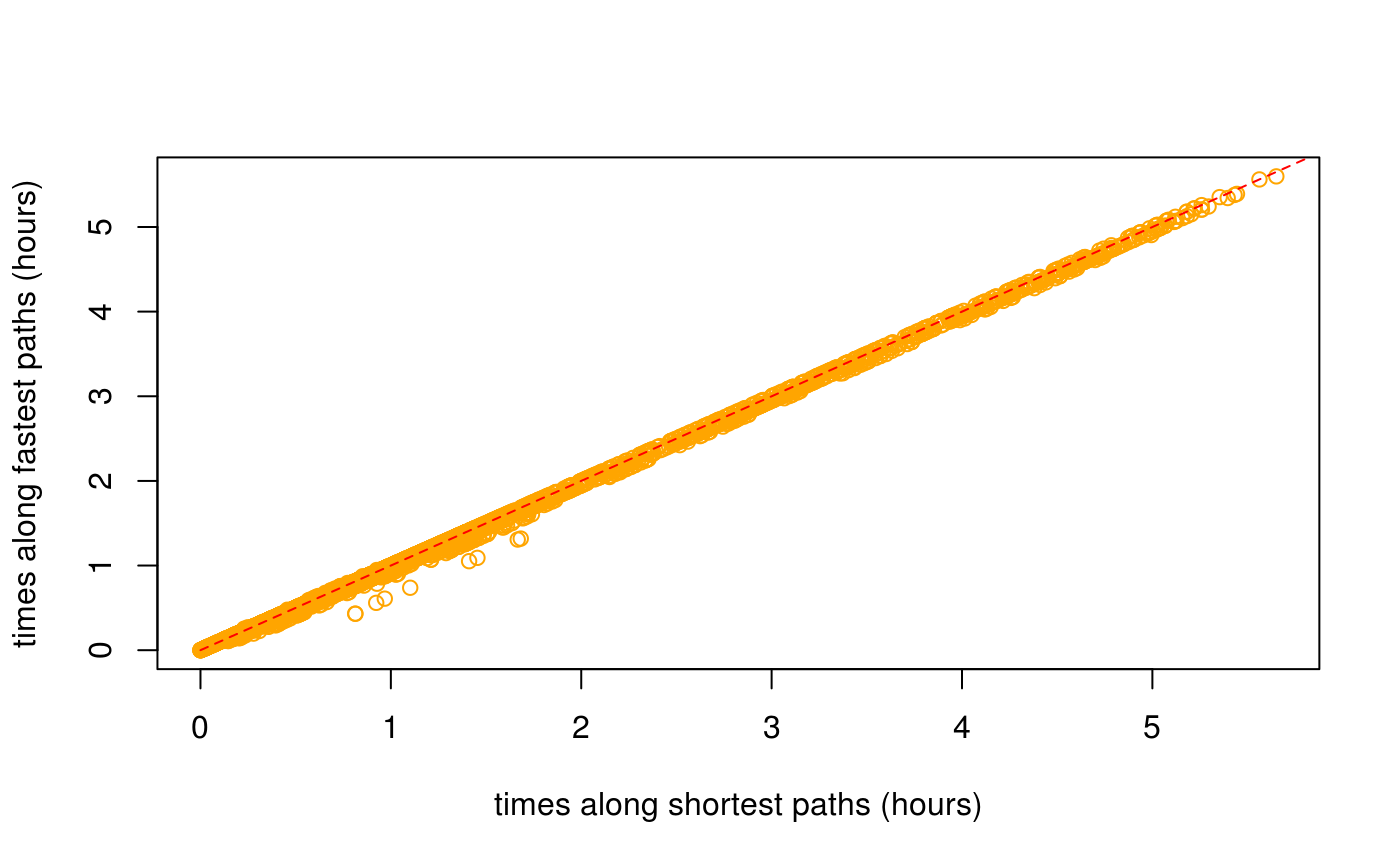
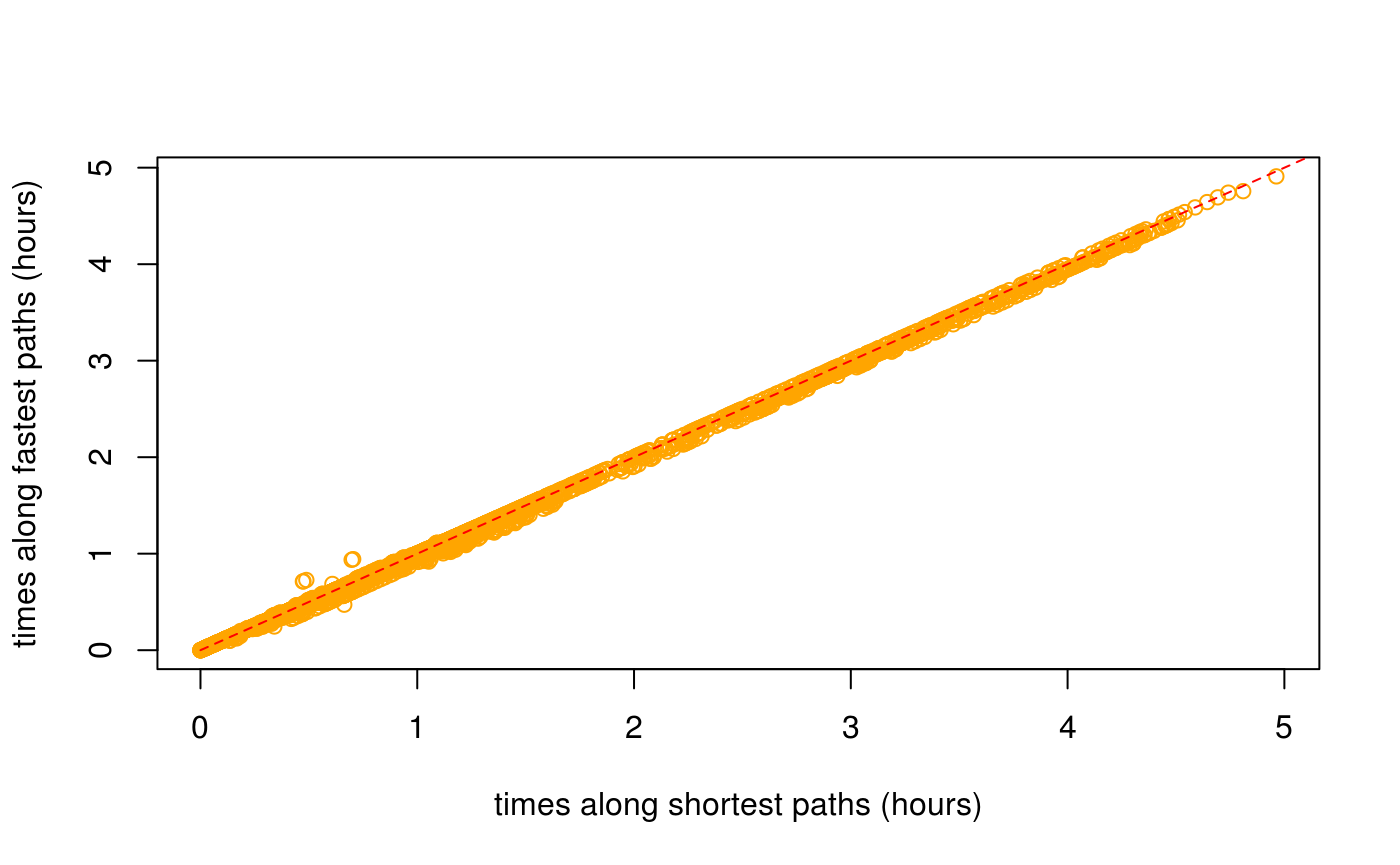
Built site for dodgr: 0.1.4.3@d1edc74

diff --git a/articles/dodgr.html b/articles/dodgr.html
@@ -68,7 +68,7 @@
       <h1>dodgr</h1>
                         <h4 class="author">Mark Padgham</h4>
             
-            <h4 class="date">2019-05-30</h4>
+            <h4 class="date">2019-05-31</h4>
       
       <small class="dont-index">Source: <a href="https://github.com/ATFutures/dodgr/blob/master/vignettes/dodgr.Rmd"><code>vignettes/dodgr.Rmd</code></a></small>
       <div class="hidden name"><code>dodgr.Rmd</code></div>
@@ -421,30 +421,30 @@ Figure 2: A <strong>dual</strong>-weighted, directed graph in which the weights 
 <div class="sourceCode" id="cb77"><pre class="sourceCode r"><code class="sourceCode r"><a class="sourceLine" id="cb77-1" data-line-number="1"><span class="kw"><a href="../reference/compare_heaps.html">compare_heaps</a></span> (graph, <span class="dt">nverts =</span> <span class="dv">100</span>, <span class="dt">replications =</span> <span class="dv">1</span>)</a></code></pre></div>
 <pre><code>##                                                                                   test
 ## 12                  d &lt;- igraph::distances(igr, v = from_id, to = to_id, mode = "out")
+## 5                 d &lt;- dodgr_dists(graph, from = from_id, to = to_id, heap = "Heap23")
 ## 6       d &lt;- dodgr_dists(graph_contracted, from = from_id, to = to_id, heap = "BHeap")
 ## 7       d &lt;- dodgr_dists(graph_contracted, from = from_id, to = to_id, heap = "FHeap")
-## 9  d &lt;- dodgr_dists(graph_contracted, from = from_id, to = to_id, heap = "TriHeapExt")
-## 11        d &lt;- dodgr_dists(graph_contracted, from = from_id, to = to_id, heap = "set")
-## 5                 d &lt;- dodgr_dists(graph, from = from_id, to = to_id, heap = "Heap23")
 ## 8     d &lt;- dodgr_dists(graph_contracted, from = from_id, to = to_id, heap = "TriHeap")
+## 4             d &lt;- dodgr_dists(graph, from = from_id, to = to_id, heap = "TriHeapExt")
+## 9  d &lt;- dodgr_dists(graph_contracted, from = from_id, to = to_id, heap = "TriHeapExt")
 ## 10     d &lt;- dodgr_dists(graph_contracted, from = from_id, to = to_id, heap = "Heap23")
+## 11        d &lt;- dodgr_dists(graph_contracted, from = from_id, to = to_id, heap = "set")
 ## 1                  d &lt;- dodgr_dists(graph, from = from_id, to = to_id, heap = "BHeap")
 ## 2                  d &lt;- dodgr_dists(graph, from = from_id, to = to_id, heap = "FHeap")
 ## 3                d &lt;- dodgr_dists(graph, from = from_id, to = to_id, heap = "TriHeap")
-## 4             d &lt;- dodgr_dists(graph, from = from_id, to = to_id, heap = "TriHeapExt")
 ##    replications elapsed relative user.self sys.self user.child sys.child
 ## 12            1   0.001        1     0.004        0          0         0
-## 6             1   0.002        2     0.004        0          0         0
+## 5             1   0.002        2     0.004        0          0         0
+## 6             1   0.002        2     0.000        0          0         0
 ## 7             1   0.002        2     0.000        0          0         0
-## 9             1   0.002        2     0.004        0          0         0
-## 11            1   0.002        2     0.000        0          0         0
-## 5             1   0.003        3     0.000        0          0         0
-## 8             1   0.003        3     0.000        0          0         0
+## 8             1   0.002        2     0.004        0          0         0
+## 4             1   0.003        3     0.004        0          0         0
+## 9             1   0.003        3     0.004        0          0         0
 ## 10            1   0.003        3     0.000        0          0         0
-## 1             1   0.004        4     0.004        0          0         0
-## 2             1   0.004        4     0.004        0          0         0
-## 3             1   0.004        4     0.004        0          0         0
-## 4             1   0.004        4     0.004        0          0         0</code></pre>
+## 11            1   0.003        3     0.000        0          0         0
+## 1             1   0.005        5     0.008        0          0         0
+## 2             1   0.005        5     0.008        0          0         0
+## 3             1   0.005        5     0.004        0          0         0</code></pre>
 <p>The key column of that <code>data.frame</code> is <code>relative</code>, which quantifies the relative performance of each test in relation to the best which is given a score of 1. <code>dodgr</code> using the default <code>heap = "BHeap"</code>, which is a binary heap priority queue, performs faster than <code>igraph</code> <span class="citation">(Csardi and Nepusz 2006)</span> for these graphs. Different kind of graphs will perform differently with different priority queue structures, and this function enables users to empirically discern the optimal heap for their kind of graph.</p>
 <p>Note, however, that this is not an entirely fair comparison, because <code>dodgr</code> calculates dual-weighted distances, whereas <code>igraph</code>—and indeed all other <strong>R</strong> packages—only directly calculate distances based on a single set of weights. Implementing dual-weighted routing in these cases requires explicitly re-tracing all paths and summing the second set of weights along each path. A time comparison in that case would be very strongly in favour of <code>dodgr</code>. Moreover, <code>dodgr</code> can convert graphs to contracted form through removing redundant vertices, as detailed in the following section. Doing so greatly improves performance with respect to <code>igraph</code>.</p>
 <p>For those wishing to do explicit comparisons themselves, the following code generates the <code>igraph</code> equivalent of <code><a href="../reference/dodgr_dists.html">dodgr_dists()</a></code>, although of course for single-weighted graphs only:</p>
@@ -497,11 +497,11 @@ Figure 3: <strong>(A)</strong> Vertex#2 is redundant for routing calculations fr
 <pre><code>## [1] 672</code></pre>
 <div class="sourceCode" id="cb89"><pre class="sourceCode r"><code class="sourceCode r"><a class="sourceLine" id="cb89-1" data-line-number="1">verts &lt;-<span class="st"> </span><span class="kw"><a href="https://www.rdocumentation.org/packages/base/topics/sample">sample</a></span> (<span class="kw"><a href="../reference/dodgr_vertices.html">dodgr_vertices</a></span> (graph)<span class="op">$</span>id, <span class="dt">size =</span> <span class="dv">100</span>)</a>
 <a class="sourceLine" id="cb89-2" data-line-number="2"><span class="kw"><a href="https://www.rdocumentation.org/packages/utils/topics/head">head</a></span> (verts) <span class="co"># a character vector</span></a></code></pre></div>
-<pre><code>## [1] "2398958034" "1148814651" "6161853487" "571423191"  "2398957861"
-## [6] "1376768724"</code></pre>
+<pre><code>## [1] "1143452536" "2398957563" "2627428633" "2627461395" "339574152" 
+## [6] "1143452459"</code></pre>
 <div class="sourceCode" id="cb91"><pre class="sourceCode r"><code class="sourceCode r"><a class="sourceLine" id="cb91-1" data-line-number="1">grc &lt;-<span class="st"> </span><span class="kw"><a href="../reference/dodgr_contract_graph.html">dodgr_contract_graph</a></span> (graph, verts)</a>
 <a class="sourceLine" id="cb91-2" data-line-number="2"><span class="kw"><a href="https://www.rdocumentation.org/packages/base/topics/nrow">nrow</a></span> (grc)</a></code></pre></div>
-<pre><code>## [1] 854</code></pre>
+<pre><code>## [1] 856</code></pre>
 <p>Retaining the nominated vertices yields a graph with considerably more edges than the fully contracted graph excluding these vertices. The <code><a href="../reference/dodgr_dists.html">dodgr_dists()</a></code> function can be applied to the latter graph to obtain accurate distances precisely routed between these points, yet using the speed advantages of graph contraction.</p>
 </div>
 </div>
@@ -542,28 +542,33 @@ Figure 3: <strong>(A)</strong> Vertex#2 is redundant for routing calculations fr
 <pre><code>## [1] 10</code></pre>
 <p>The result (<code>dp</code>) is a list of 10 items, each of which contains 5 vectors. An example is,</p>
 <div class="sourceCode" id="cb98"><pre class="sourceCode r"><code class="sourceCode r"><a class="sourceLine" id="cb98-1" data-line-number="1">dp [[<span class="dv">1</span>]] [[<span class="dv">1</span>]]</a></code></pre></div>
-<pre><code>##  [1] "1148814710" "1148815081" "977472903"  "1148814946" "1148814822"
-##  [6] "977472750"  "1148815260" "1143452479" "3921511683" "977472983" 
-## [11] "1148815084" "1143452084" "1143452213" "1143452334" "1143452119"
-## [16] "1143452538" "1143452271" "977473118"  "1148814844" "977473085" 
-## [21] "3697942891" "1143452434" "1143452142" "2627436883" "2627436882"
-## [26] "2627436887" "2627436886" "2608076544" "2627436880" "2627436884"
-## [31] "2627436879" "2627436885" "2627436881" "2608076499" "2608076497"
-## [36] "2608076495" "2608076493" "2608076491" "2608076489" "2608076487"
-## [41] "2608076485" "2608076483" "2608076481" "2608076479" "2608076477"
-## [46] "2608076475" "2608076473" "2608076471" "2608076469" "2608076467"
-## [51] "2608076465" "2608076457" "2608076455" "2608076453" "2608076451"</code></pre>
+<pre><code>##  [1] "2588146089" "2588146081" "2588146050" "2588146042" "2588146120"
+##  [6] "2588146091" "2588146032" "2398957747" "2398957748" "1390214349"
+## [11] "2398957751" "2398957754" "286632888"  "2398957758" "2398957760"
+## [16] "2398957761" "2398957762" "2398957764" "2398957765" "2398957768"
+## [21] "2398957774" "2398957775" "1390214918" "2398957782" "2398957783"
+## [26] "286632889"  "1390214848" "2398957792" "2398957793" "286632890" 
+## [31] "2398957794" "2398957795" "2398957796" "2398957797" "2398957798"
+## [36] "340148006"  "340148007"  "2398957809" "2398957814" "286632895" 
+## [41] "1390214618" "2398957831" "2398957835" "286632896"  "2398957838"
+## [46] "1604033309" "2398957841" "2398957842" "2627476980" "2627476985"
+## [51] "339574165"  "4474520806" "1604033316" "339574164"  "4474520807"
+## [56] "339574161"  "4474520808" "339574160"  "1715805190" "339574159" 
+## [61] "339574158"  "1715805191" "339574157"  "339574156"  "339574155" 
+## [66] "339574154"  "339574168"  "339574169"  "339574170"  "339574171" 
+## [71] "339574172"  "339574173"  "339574174"  "339574175"  "339574176" 
+## [76] "339574177"  "339574178"  "339574179"  "339574180"</code></pre>
 <p>For spatial graphs, the coordinates of these paths can be obtained by extracting the vertices with <code><a href="../reference/dodgr_vertices.html">dodgr_vertices()</a></code> and matching the vertex IDs:</p>
 <div class="sourceCode" id="cb100"><pre class="sourceCode r"><code class="sourceCode r"><a class="sourceLine" id="cb100-1" data-line-number="1">verts &lt;-<span class="st"> </span><span class="kw"><a href="../reference/dodgr_vertices.html">dodgr_vertices</a></span> (graph)</a>
 <a class="sourceLine" id="cb100-2" data-line-number="2">path1 &lt;-<span class="st"> </span>verts [<span class="kw"><a href="https://www.rdocumentation.org/packages/base/topics/match">match</a></span> (dp [[<span class="dv">1</span>]] [[<span class="dv">1</span>]], verts<span class="op">$</span>id), ]</a>
 <a class="sourceLine" id="cb100-3" data-line-number="3"><span class="kw"><a href="https://www.rdocumentation.org/packages/utils/topics/head">head</a></span> (path1)</a></code></pre></div>
 <pre><code>##              id        x        y component    n
-## 1994 1148814710 76.46437 15.34028         2 1009
-## 1992 1148815081 76.46424 15.34017         2 1008
-## 1990  977472903 76.46403 15.34016         2 1007
-## 1988 1148814946 76.46383 15.34020         2 1006
-## 1986 1148814822 76.46361 15.34053         2 1005
-## 1984  977472750 76.46341 15.34068         2 1004</code></pre>
+## 3624 2588146089 76.44664 15.32111         1 1815
+## 3626 2588146081 76.44780 15.32178         1 1816
+## 3628 2588146050 76.44805 15.32168         1 1817
+## 3630 2588146042 76.44864 15.32139         1 1818
+## 3632 2588146120 76.44917 15.32131         1 1819
+## 3634 2588146091 76.45042 15.32141         1 1820</code></pre>
 <p>Paths calculated on contracted graphs will of course have fewer vertices than those calculated on full graphs.</p>
 </div>
 <div id="aggregated-flows" class="section level1">
@@ -607,7 +612,7 @@ Figure 3: <strong>(A)</strong> Vertex#2 is redundant for routing calculations fr
 <p>Most flows are zero because they have only been calculated between very few points in the graph.</p>
 <div class="sourceCode" id="cb105"><pre class="sourceCode r"><code class="sourceCode r"><a class="sourceLine" id="cb105-1" data-line-number="1"><span class="kw"><a href="https://www.rdocumentation.org/packages/base/topics/summary">summary</a></span> (graph_f<span class="op">$</span>flow)</a></code></pre></div>
 <pre><code>##    Min. 1st Qu.  Median    Mean 3rd Qu.    Max. 
-##   0.000   0.000   0.000   9.709  10.985  87.352</code></pre>
+##  0.0000  0.0000  0.0000  4.8392  0.1509 46.8475</code></pre>
 </div>
 <div id="flow-dispersal" class="section level2">
 <h2 class="hasAnchor">
@@ -617,7 +622,7 @@ Figure 3: <strong>(A)</strong> Vertex#2 is redundant for routing calculations fr
 <a class="sourceLine" id="cb107-2" data-line-number="2">graph_f &lt;-<span class="st"> </span><span class="kw"><a href="../reference/dodgr_flows_disperse.html">dodgr_flows_disperse</a></span> (graph, <span class="dt">from =</span> from, <span class="dt">dens =</span> dens)</a>
 <a class="sourceLine" id="cb107-3" data-line-number="3"><span class="kw"><a href="https://www.rdocumentation.org/packages/base/topics/summary">summary</a></span> (graph_f<span class="op">$</span>flow)</a></code></pre></div>
 <pre><code>##      Min.   1st Qu.    Median      Mean   3rd Qu.      Max. 
-## 0.000e+00 0.000e+00 0.000e+00 3.578e-05 0.000e+00 1.476e-01</code></pre>
+## 0.000e+00 0.000e+00 0.000e+00 5.118e-07 0.000e+00 1.650e-03</code></pre>
 </div>
 <div id="merging-directed-flows" class="section level2">
 <h2 class="hasAnchor">
@@ -627,7 +632,7 @@ Figure 3: <strong>(A)</strong> Vertex#2 is redundant for routing calculations fr
 <p>Resultant graphs produced by <code><a href="../reference/merge_directed_flows.html">merge_directed_flows()</a></code> only include those edges having non-zero flows, and so:</p>
 <div class="sourceCode" id="cb110"><pre class="sourceCode r"><code class="sourceCode r"><a class="sourceLine" id="cb110-1" data-line-number="1"><span class="kw"><a href="https://www.rdocumentation.org/packages/base/topics/nrow">nrow</a></span> (graph_f); <span class="kw"><a href="https://www.rdocumentation.org/packages/base/topics/nrow">nrow</a></span> (graph_undir) <span class="co"># the latter is much smaller</span></a></code></pre></div>
 <pre><code>## [1] 5973</code></pre>
-<pre><code>## [1] 1583</code></pre>
+<pre><code>## [1] 1485</code></pre>
 <p>The resultant graph can readily be merged with the original graph to regain the original data on vertex coordinates through</p>
 <div class="sourceCode" id="cb113"><pre class="sourceCode r"><code class="sourceCode r"><a class="sourceLine" id="cb113-1" data-line-number="1">graph &lt;-<span class="st"> </span>graph [graph_undir<span class="op">$</span>edge_id, ]</a>
 <a class="sourceLine" id="cb113-2" data-line-number="2">graph<span class="op">$</span>flow &lt;-<span class="st"> </span>graph_undir<span class="op">$</span>flow</a></code></pre></div>

diff --git a/articles/times.html b/articles/times.html
@@ -68,7 +68,7 @@
       <h1>Street networks and time-based routing</h1>
                         <h4 class="author">Mark Padgham</h4>
             
-            <h4 class="date">2019-05-30</h4>
+            <h4 class="date">2019-05-31</h4>
       
       <small class="dont-index">Source: <a href="https://github.com/ATFutures/dodgr/blob/master/vignettes/times.Rmd"><code>vignettes/times.Rmd</code></a></small>
       <div class="hidden name"><code>times.Rmd</code></div>
@@ -233,11 +233,11 @@ Figure 1: Graph modification to account for turn angles, which introduces the ad
 <p><img src="times_files/figure-html/shortest-vs-fastest-1.png" width="700"></p>
 <p>The average distance between the two (in metres) is:</p>
 <div class="sourceCode" id="cb11"><pre class="sourceCode r"><code class="sourceCode r"><a class="sourceLine" id="cb11-1" data-line-number="1"><span class="kw"><a href="https://www.rdocumentation.org/packages/base/topics/mean">mean</a></span> (<span class="kw"><a href="https://www.rdocumentation.org/packages/base/topics/MathFun">abs</a></span> (d_time <span class="op">-</span><span class="st"> </span>d_dist), <span class="dt">na.rm =</span> <span class="ot">TRUE</span>)</a></code></pre></div>
-<pre><code>## [1] 40.65583</code></pre>
+<pre><code>## [1] 46.92715</code></pre>
 <p>The plot reveals that shortest distances are indeed somewhat shorter than distances along fastest paths, but also that some fastest paths are actually shorter than shortest paths:</p>
 <div class="sourceCode" id="cb13"><pre class="sourceCode r"><code class="sourceCode r"><a class="sourceLine" id="cb13-1" data-line-number="1">index &lt;-<span class="st"> </span><span class="kw"><a href="https://www.rdocumentation.org/packages/base/topics/which">which</a></span> (<span class="op">!</span><span class="kw"><a href="https://www.rdocumentation.org/packages/base/topics/NA">is.na</a></span> (d_time) <span class="op">&amp;</span><span class="st"> </span><span class="op">!</span><span class="kw"><a href="https://www.rdocumentation.org/packages/base/topics/NA">is.na</a></span> (d_dist))</a>
 <a class="sourceLine" id="cb13-2" data-line-number="2"><span class="kw"><a href="https://www.rdocumentation.org/packages/base/topics/length">length</a></span> (<span class="kw"><a href="https://www.rdocumentation.org/packages/base/topics/which">which</a></span> (d_time [index] <span class="op">&lt;</span><span class="st"> </span>d_dist [index])) <span class="op">/</span><span class="st"> </span><span class="kw"><a href="https://www.rdocumentation.org/packages/base/topics/length">length</a></span> (index)</a></code></pre></div>
-<pre><code>## [1] 0.02848331</code></pre>
+<pre><code>## [1] 0.02963918</code></pre>
 <p>While <code>dodgr</code> and indeed all routing engines attempt to maximally reconcile differences between fastest and shortest routes, there nevertheless remain important discrepancies. Foremost among these, and the primary reason why some fastest routes may in fact be shorter than shortest routes, is that fastest routes allocate preferences for different kinds of way based both on the <code>value</code> column in the <code>weighting_profiles$weighting_profiles</code> table illustrated above, and on the actual maximum speed of a given edge, which itself may be a combination of maximum speeds as specified in OSM itself, maximum speeds from the <code>weighting_profiles$weighting_profiles</code> table, or values specific to a given surface. The result is that some unique combination of maximum speeds along a network may lead to <em>fastest</em> routes being preferentially directed along a path that is actually shorter than the direct shortest path which is calculated independent of maximum speed values.</p>
 <p>Such discrepancies are important in understanding differences in routes <em>times</em> calculated along shortest versus fastest paths. These times can be calculated (in seconds) with the <a href="https://atfutures.github.io/dodgr/reference/dodgr_times.html"><code><a href="../reference/dodgr_times.html">dodgr_times()</a></code></a> function:</p>
 <div class="sourceCode" id="cb15"><pre class="sourceCode r"><code class="sourceCode r"><a class="sourceLine" id="cb15-1" data-line-number="1">t_dist &lt;-<span class="st"> </span><span class="kw"><a href="../reference/dodgr_times.html">dodgr_times</a></span> (graph, <span class="dt">from =</span> from, <span class="dt">to =</span> to, <span class="dt">shortest =</span> <span class="ot">TRUE</span>) <span class="co"># default</span></a>
@@ -248,11 +248,11 @@ Figure 1: Graph modification to account for turn angles, which introduces the ad
 <a class="sourceLine" id="cb15-6" data-line-number="6"><span class="kw"><a href="https://www.rdocumentation.org/packages/graphics/topics/lines">lines</a></span> (<span class="dv">0</span><span class="op">:</span><span class="dv">100</span>, <span class="dv">0</span><span class="op">:</span><span class="dv">100</span>, <span class="dt">col =</span> <span class="st">"red"</span>, <span class="dt">lty =</span> <span class="dv">2</span>)</a></code></pre></div>
 <p><img src="times_files/figure-html/shortest-vs-fastest-times-1.png" width="700"></p>
 <div class="sourceCode" id="cb16"><pre class="sourceCode r"><code class="sourceCode r"><a class="sourceLine" id="cb16-1" data-line-number="1"><span class="kw"><a href="https://www.rdocumentation.org/packages/base/topics/mean">mean</a></span> (<span class="kw"><a href="https://www.rdocumentation.org/packages/base/topics/MathFun">abs</a></span> (t_time <span class="op">-</span><span class="st"> </span>t_dist), <span class="dt">na.rm =</span> <span class="ot">TRUE</span>)</a></code></pre></div>
-<pre><code>## [1] 47.20596</code></pre>
+<pre><code>## [1] 50.08791</code></pre>
 <p>As above, times along fastest paths are generally less than times along shortest paths, although there are again a few exceptions:</p>
 <div class="sourceCode" id="cb18"><pre class="sourceCode r"><code class="sourceCode r"><a class="sourceLine" id="cb18-1" data-line-number="1">index &lt;-<span class="st"> </span><span class="kw"><a href="https://www.rdocumentation.org/packages/base/topics/which">which</a></span> (<span class="op">!</span><span class="kw"><a href="https://www.rdocumentation.org/packages/base/topics/NA">is.na</a></span> (t_time) <span class="op">&amp;</span><span class="st"> </span><span class="op">!</span><span class="kw"><a href="https://www.rdocumentation.org/packages/base/topics/NA">is.na</a></span> (t_dist))</a>
 <a class="sourceLine" id="cb18-2" data-line-number="2"><span class="kw"><a href="https://www.rdocumentation.org/packages/base/topics/length">length</a></span> (<span class="kw"><a href="https://www.rdocumentation.org/packages/base/topics/which">which</a></span> (t_dist [index] <span class="op">&lt;</span><span class="st"> </span>t_time [index])) <span class="op">/</span><span class="st"> </span><span class="kw"><a href="https://www.rdocumentation.org/packages/base/topics/length">length</a></span> (index)</a></code></pre></div>
-<pre><code>## [1] 0.004354136</code></pre>
+<pre><code>## [1] 0.01527982</code></pre>
 <p>These results demonstrate how the combination of the <a href="https://atfutures.github.io/dodgr/reference/dodgr_distances.html"><code><a href="../reference/dodgr_distances.html">dodgr_distances()</a></code></a> and <a href="https://atfutures.github.io/dodgr/reference/dodgr_times.html"><code><a href="../reference/dodgr_times.html">dodgr_times()</a></code></a> functions enable calculation of both distances and times along both shortest and fastest paths.</p>
 <div id="time-based-paths-and-flow-aggregation" class="section level2">
 <h2 class="hasAnchor">

diff --git a/reference/compare_heaps.html b/reference/compare_heaps.html
@@ -155,30 +155,30 @@ fair comparisons, run only once or re-start the current R session.</p>
     <pre class="examples"><div class='input'><span class='no'>graph</span> <span class='kw'>&lt;-</span> <span class='fu'><a href='weight_streetnet.html'>weight_streetnet</a></span> (<span class='no'>hampi</span>)
 <span class='fu'>compare_heaps</span> (<span class='no'>graph</span>, <span class='kw'>nverts</span> <span class='kw'>=</span> <span class='fl'>1000</span>, <span class='kw'>replications</span> <span class='kw'>=</span> <span class='fl'>1</span>)</div><div class='output co'>#&gt;                                                                                   test
 #&gt; 6       d &lt;- dodgr_dists(graph_contracted, from = from_id, to = to_id, heap = "BHeap")
+#&gt; 8     d &lt;- dodgr_dists(graph_contracted, from = from_id, to = to_id, heap = "TriHeap")
 #&gt; 11        d &lt;- dodgr_dists(graph_contracted, from = from_id, to = to_id, heap = "set")
 #&gt; 7       d &lt;- dodgr_dists(graph_contracted, from = from_id, to = to_id, heap = "FHeap")
-#&gt; 8     d &lt;- dodgr_dists(graph_contracted, from = from_id, to = to_id, heap = "TriHeap")
 #&gt; 9  d &lt;- dodgr_dists(graph_contracted, from = from_id, to = to_id, heap = "TriHeapExt")
 #&gt; 10     d &lt;- dodgr_dists(graph_contracted, from = from_id, to = to_id, heap = "Heap23")
 #&gt; 12                  d &lt;- igraph::distances(igr, v = from_id, to = to_id, mode = "out")
 #&gt; 1                  d &lt;- dodgr_dists(graph, from = from_id, to = to_id, heap = "BHeap")
 #&gt; 2                  d &lt;- dodgr_dists(graph, from = from_id, to = to_id, heap = "FHeap")
 #&gt; 5                 d &lt;- dodgr_dists(graph, from = from_id, to = to_id, heap = "Heap23")
-#&gt; 3                d &lt;- dodgr_dists(graph, from = from_id, to = to_id, heap = "TriHeap")
 #&gt; 4             d &lt;- dodgr_dists(graph, from = from_id, to = to_id, heap = "TriHeapExt")
+#&gt; 3                d &lt;- dodgr_dists(graph, from = from_id, to = to_id, heap = "TriHeap")
 #&gt;    replications elapsed relative user.self sys.self user.child sys.child
-#&gt; 6             1   0.008    1.000     0.012        0          0         0
-#&gt; 11            1   0.008    1.000     0.012        0          0         0
-#&gt; 7             1   0.009    1.125     0.016        0          0         0
-#&gt; 8             1   0.010    1.250     0.016        0          0         0
-#&gt; 9             1   0.010    1.250     0.008        0          0         0
-#&gt; 10            1   0.010    1.250     0.016        0          0         0
-#&gt; 12            1   0.020    2.500     0.020        0          0         0
-#&gt; 1             1   0.033    4.125     0.056        0          0         0
-#&gt; 2             1   0.043    5.375     0.076        0          0         0
-#&gt; 5             1   0.045    5.625     0.080        0          0         0
-#&gt; 3             1   0.046    5.750     0.080        0          0         0
-#&gt; 4             1   0.050    6.250     0.048        0          0         0</div></pre>
+#&gt; 6             1   0.006    1.000     0.008        0          0         0
+#&gt; 8             1   0.006    1.000     0.012        0          0         0
+#&gt; 11            1   0.006    1.000     0.008        0          0         0
+#&gt; 7             1   0.007    1.167     0.012        0          0         0
+#&gt; 9             1   0.007    1.167     0.004        0          0         0
+#&gt; 10            1   0.007    1.167     0.012        0          0         0
+#&gt; 12            1   0.016    2.667     0.016        0          0         0
+#&gt; 1             1   0.027    4.500     0.044        0          0         0
+#&gt; 2             1   0.034    5.667     0.056        0          0         0
+#&gt; 5             1   0.035    5.833     0.060        0          0         0
+#&gt; 4             1   0.038    6.333     0.040        0          0         0
+#&gt; 3             1   0.043    7.167     0.076        0          0         0</div></pre>
   </div>
   <div class="col-md-3 hidden-xs hidden-sm" id="sidebar">
     <h2>Contents</h2>

diff --git a/reference/dodgr_sample.html b/reference/dodgr_sample.html
@@ -141,7 +141,7 @@ the requested <code>nverts</code>.</p>
     <h2 class="hasAnchor" id="examples"><a class="anchor" href="#examples"></a>Examples</h2>
     <pre class="examples"><div class='input'><span class='no'>graph</span> <span class='kw'>&lt;-</span> <span class='fu'><a href='weight_streetnet.html'>weight_streetnet</a></span> (<span class='no'>hampi</span>)
 <span class='fu'><a href='https://www.rdocumentation.org/packages/base/topics/nrow'>nrow</a></span> (<span class='no'>graph</span>) <span class='co'># 5,742</span></div><div class='output co'>#&gt; [1] 5973</div><div class='input'><span class='no'>graph</span> <span class='kw'>&lt;-</span> <span class='fu'>dodgr_sample</span> (<span class='no'>graph</span>, <span class='kw'>nverts</span> <span class='kw'>=</span> <span class='fl'>200</span>)
-<span class='fu'><a href='https://www.rdocumentation.org/packages/base/topics/nrow'>nrow</a></span> (<span class='no'>graph</span>) <span class='co'># generally around 400 edges</span></div><div class='output co'>#&gt; [1] 397</div><div class='input'><span class='fu'><a href='https://www.rdocumentation.org/packages/base/topics/nrow'>nrow</a></span> (<span class='fu'><a href='dodgr_vertices.html'>dodgr_vertices</a></span> (<span class='no'>graph</span>)) <span class='co'># 200</span></div><div class='output co'>#&gt; [1] 200</div></pre>
+<span class='fu'><a href='https://www.rdocumentation.org/packages/base/topics/nrow'>nrow</a></span> (<span class='no'>graph</span>) <span class='co'># generally around 400 edges</span></div><div class='output co'>#&gt; [1] 402</div><div class='input'><span class='fu'><a href='https://www.rdocumentation.org/packages/base/topics/nrow'>nrow</a></span> (<span class='fu'><a href='dodgr_vertices.html'>dodgr_vertices</a></span> (<span class='no'>graph</span>)) <span class='co'># 200</span></div><div class='output co'>#&gt; [1] 200</div></pre>
   </div>
   <div class="col-md-3 hidden-xs hidden-sm" id="sidebar">
     <h2>Contents</h2>

diff --git a/index.html b/index.html
@@ -511,7 +511,7 @@
 <td align="right">1</td>
 <td align="right">95.358362</td>
 <td align="right">119.197952</td>
-<td align="right">0.00000</td>
+<td align="right">8.644257</td>
 </tr>
 <tr class="even">
 <td align="right">1</td>
@@ -529,7 +529,7 @@
 <td align="right">1</td>
 <td align="right">95.358362</td>
 <td align="right">119.197952</td>
-<td align="right">25.24588</td>
+<td align="right">0.000000</td>
 </tr>
 <tr class="odd">
 <td align="right">1</td>
@@ -547,7 +547,7 @@
 <td align="right">1</td>
 <td align="right">6.399843</td>
 <td align="right">7.999803</td>
-<td align="right">0.00000</td>
+<td align="right">8.644257</td>
 </tr>
 <tr class="even">
 <td align="right">1</td>
@@ -565,7 +565,7 @@
 <td align="right">1</td>
 <td align="right">6.399843</td>
 <td align="right">7.999803</td>
-<td align="right">25.24588</td>
+<td align="right">0.000000</td>
 </tr>
 <tr class="odd">
 <td align="right">1</td>
@@ -583,7 +583,7 @@
 <td align="right">1</td>
 <td align="right">6.715106</td>
 <td align="right">8.393882</td>
-<td align="right">0.00000</td>
+<td align="right">8.644257</td>
 </tr>
 <tr class="even">
 <td align="right">1</td>
@@ -601,7 +601,7 @@
 <td align="right">1</td>
 <td align="right">6.715106</td>
 <td align="right">8.393882</td>
-<td align="right">25.24588</td>
+<td align="right">0.000000</td>
 </tr>
 </tbody>
 </table>

diff --git a/articles/benchmark.html b/articles/benchmark.html
@@ -68,7 +68,7 @@
       <h1>dodgr benchmark</h1>
                         <h4 class="author">Andreas Petutschnig</h4>
             
-            <h4 class="date">2019-05-30</h4>
+            <h4 class="date">2019-05-31</h4>
       
       <small class="dont-index">Source: <a href="https://github.com/ATFutures/dodgr/blob/master/vignettes/benchmark.Rmd"><code>vignettes/benchmark.Rmd</code></a></small>
       <div class="hidden name"><code>benchmark.Rmd</code></div>
